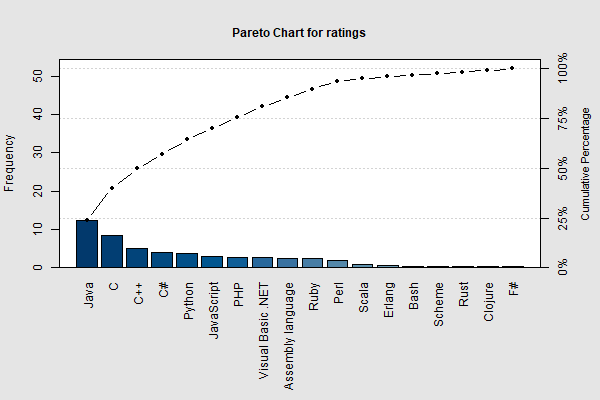
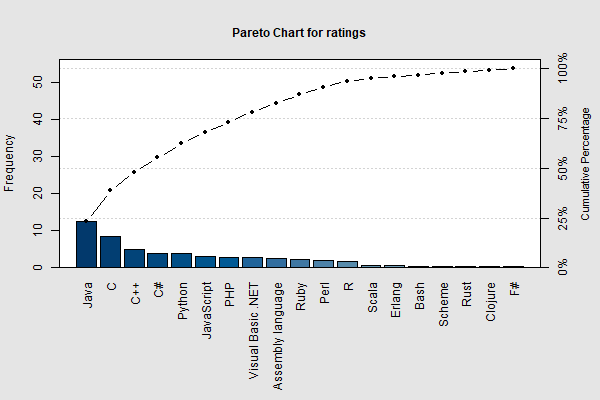
Add a R script

diff --git a/scripts/ratings/language_ratings.py b/scripts/ratings/language_ratings.py
@@ -4,18 +4,18 @@
 '''
 This script
 - reads the TIOBE index from a local file or via Internet
-- writes a table for languages and,
+- writes a markdown table for languages and,
 - draws a parete chart by R
 
 usage (to parse a local HTML file)
-$ python3 language_ratings.py html-filename csv-filename png-filename
+$ python3 language_ratings.py html-filename table-filename png-filename
 - html-filename (input) : a local HTML file
-- csv-filename (output) : a CSV file that contains the TIOBE index rating
-  for selected languages
+- table-filename (output) : a markdown table file that contains the TIOBE
+  index rating for selected languages
 - png-filename (output) : a parete chart for the table
 
 usage (to read TIOBE official website)
-$ python3 language_ratings.py web csv-filename png-filename
+$ python3 language_ratings.py web table-filename png-filename
 
 Copyright (C) 2017 Zettsu Tatsuya
 '''
@@ -28,7 +28,7 @@ from bs4 import BeautifulSoup
 
 # Programming languages to extract TIOBE index ratings
 LANGUAGE_SET = ['Ruby', 'JavaScript', 'Java', 'C#', 'Visual Basic .NET',
-                'Perl', 'Python', 'Groovy', 'Scala', 'Bash',
+                'Perl', 'Python', 'Groovy', 'Scala', "R", 'Bash',
                 'C++', 'C', 'Assembly language', 'Haskell',
                 'Elixir', 'Erlang',
                 'PHP', 'Clojure', 'Scheme', 'OCaml', 'F#', 'Rust',
@@ -40,7 +40,7 @@ REMOTE_KEYWORD = 'web'
 REMOTE_URL = 'https://www.tiobe.com/tiobe-index/'
 
 # Usage
-USAGE_TEXT = 'usage : python3 language_ratings.py (html-filename|web) csv-filename png-filename'
+USAGE_TEXT = 'usage : python3 language_ratings.py (html-filename|web) table-filename png-filename'
 
 # Exit status for make
 EXIT_STATUS_SUCCESS = 0
@@ -55,16 +55,16 @@ class LanguageRatings():
 
     def __init__(self, command_line_arguments):
         self.html_path = command_line_arguments[1]
-        self.csv_filename = command_line_arguments[2]
+        self.table_filename = command_line_arguments[2]
         self.png_filename = command_line_arguments[3]
 
     def generate(self):
-        '''Generates a chart and csv file from a HTML document'''
+        '''Generates a chart and a markdown table file from a HTML document'''
 
         soup = self.fetch(self.html_path)
         partial_table, full_table = self.make_table(self.parse_file(soup))
-        self.make_chart(partial_table, self.csv_filename, self.png_filename)
-        with open(self.csv_filename, 'w') as file:
+        self.make_chart(partial_table, self.table_filename, self.png_filename)
+        with open(self.table_filename, 'w') as file:
             file.write(full_table)
 
         return EXIT_STATUS_SUCCESS
@@ -74,7 +74,10 @@ class LanguageRatings():
         '''Downloads or loads a HTML document'''
 
         if html_path == REMOTE_KEYWORD:
-            html_response = requests.get(REMOTE_URL)
+            # Set environment variables HTTP_PROXY and HTTPS_PROXY
+            # to use HTTP proxies.
+            # To avoid 'certificate verify failed', set verify=False
+            html_response = requests.get(REMOTE_URL, verify=False)
             html_text = html_response.text
         else:
             html_text = open(html_path)
@@ -147,15 +150,17 @@ class LanguageRatings():
         return partial_table, full_table
 
     @staticmethod
-    def make_chart(partial_table, csv_filename, png_filename):
+    def make_chart(partial_table, table_filename, png_filename):
         '''Makes a parete chat by R'''
 
-        # If it succeeded, overwrite the CSV file later.
-        with open(csv_filename, 'w') as file:
+        # Creates a CSV file of which name is table_filename
+        # If it succeeded, overwrite the file later.
+        # If it failed, the CSV file remains and can be checekd in debugging.
+        with open(table_filename, 'w') as file:
             file.write(partial_table)
 
         arguments = ['Rscript', 'language_ratings.R', '--args',
-                     csv_filename, png_filename]
+                     table_filename, png_filename]
         result = subprocess.run(arguments)
 
         if result.returncode:

diff --git a/2008math4.md b/2008math4.md
@@ -16,7 +16,7 @@ make
 - 二組の整数から作る式を総当たりで比較しています。コードは簡潔になるかもしれませんが遅いです。可能であれば、計算結果を連想配列に入れるなど、もっと速く計算できると思います。
 - 問4-1でみたように、整数a..bに足し算掛け算を適用して作る計算結果は、同一の値に対して複数の式がありえます。そのときは表示が冗長になります。
 
-2017年10月時点の[TIOBE index](http://www.tiobe.com/tiobe-index)におけるratingsについて、上記の言語の合計は20位以内の言語で48.7%, 50位以内の言語で51.9%です。ちょうど半分程度です(下記の表は[https://www.tiobe.com/](https://www.tiobe.com/)を基に作成)。
+2017年10月時点の[TIOBE index](http://www.tiobe.com/tiobe-index)におけるratingsについて、上記の言語の合計は20位以内の言語で50.4%, 50位以内の言語で53.6%です。ちょうど半分程度です(下記の表は[https://www.tiobe.com/](https://www.tiobe.com/)を基に作成)。
 
 |TIOBE index rank|Programming Language|Ratings[%]|Cumulative Ratings[%]|
 |:--|:------|:------|:------|
@@ -31,13 +31,14 @@ make
 |9|Assembly language|2.374|44.382|
 |10|Ruby|2.324|46.706|
 |12|Perl|1.963|48.669|
-|29|Scala|0.706|49.375|
-|38|Erlang|0.508|49.883|
-|44|Bash|0.428|50.311|
-|45|Scheme|0.423|50.734|
-|46|Rust|0.409|51.143|
-|47|Clojure|0.405|51.548|
-|48|F#|0.393|51.941|
+|15|R|1.684|50.353|
+|29|Scala|0.706|51.059|
+|38|Erlang|0.508|51.567|
+|44|Bash|0.428|51.995|
+|45|Scheme|0.423|52.418|
+|46|Rust|0.409|52.827|
+|47|Clojure|0.405|53.232|
+|48|F#|0.393|53.625|
 |-|Groovy|||
 |-|Haskell|||
 |-|Elixir|||
@@ -47,7 +48,7 @@ make
 
 TIOBE indexが更新されたら、[2008math4table.rb](2008math4table.rb)で表を作り直すことができます。楽をするためなら苦労はいとわないことが大事ですね。このスクリプトを起動すると、実際にTIOBEのwebサイトにアクセスに行きますのでご注意ください。
 
-[language_ratings.py](scripts/ratings/language_ratings.py)は表と併せて、Rでパレート図を作ります。上記の表にある言語のうち、ratingsのある言語だけのジニ係数(Gini coefficient)は0.52です。
+[language_ratings.py](scripts/ratings/language_ratings.py)は表と併せて、Rでパレート図を作ります。上記の表にある言語のうち、ratingsのある言語だけのジニ係数(Gini coefficient)は0.51です。
 
 ![2008math4table.png](2008math4table.png)
 
@@ -641,6 +642,81 @@ $ scala 2008math4.scala 1
 1188 msec
 (20,List(1+2+3*4+5==2+3+4+5+6))
 (25,List(1*2+3+4*5==2+3*4+5+6))
+```
+
+## R
+
+Rでも計算できます。
+
+```R
+library(data.table)
+
+ops <- factor(c('+', '*'))
+
+make_exprs <- function(rows) {
+    strsplit(apply(rows, 1, paste, collapse=""), split=" ")
+}
+
+make_value_expr <- function(expr) {
+    c(eval(parse(text=expr)), expr)
+}
+
+make_value_expr_list <- function(exprs) {
+    lapply(exprs, make_value_expr)
+}
+
+print_result <- function(l) {
+    sprintf("%s = %s", l[1], l[2])
+}
+
+q1rows <- expand.grid('1', ops, '2', ops, '3', ops, '4')
+q1exprs <- make_exprs(q1rows)
+q1list <- make_value_expr_list(q1exprs)
+q1result <- q1list[order(sapply(q1list, function(x) strtoi(x[1])), decreasing=FALSE)]
+lapply(q1result, print_result)
+
+q2left <- make_exprs(expand.grid('1', ops, '2', ops, '3', ops, '4', ops, '5'))
+q2right <- make_exprs(expand.grid('2', ops, '3', ops, '4', ops, '5', ops, '6'))
+q2left_list <- make_value_expr_list(q2left)
+q2right_list <- make_value_expr_list(q2right)
+
+for (left in q2left_list) {
+    for (right in q2right_list) {
+        if (left[1] == right[1]) {
+            print(sprintf("%s == %s", left[2], right[2]))
+        }
+    }
+}
+```
+
+```text
+$ Rscript 2008math4.R
+[[1]]
+[1] "9 = 1*2+3+4"
+
+[[2]]
+[1] "10 = 1+2+3+4"
+
+[[3]]
+[1] "10 = 1*2*3+4"
+
+[[4]]
+[1] "11 = 1+2*3+4"
+
+[[5]]
+[1] "14 = 1*2+3*4"
+
+[[6]]
+[1] "15 = 1+2+3*4"
+
+[[7]]
+[1] "24 = 1*2*3*4"
+
+[[8]]
+[1] "25 = 1+2*3*4"
+
+[1] "1+2+3*4+5 == 2+3+4+5+6"
+[1] "1*2+3+4*5 == 2+3*4+5+6"
 ```
 
 ## Bash script
